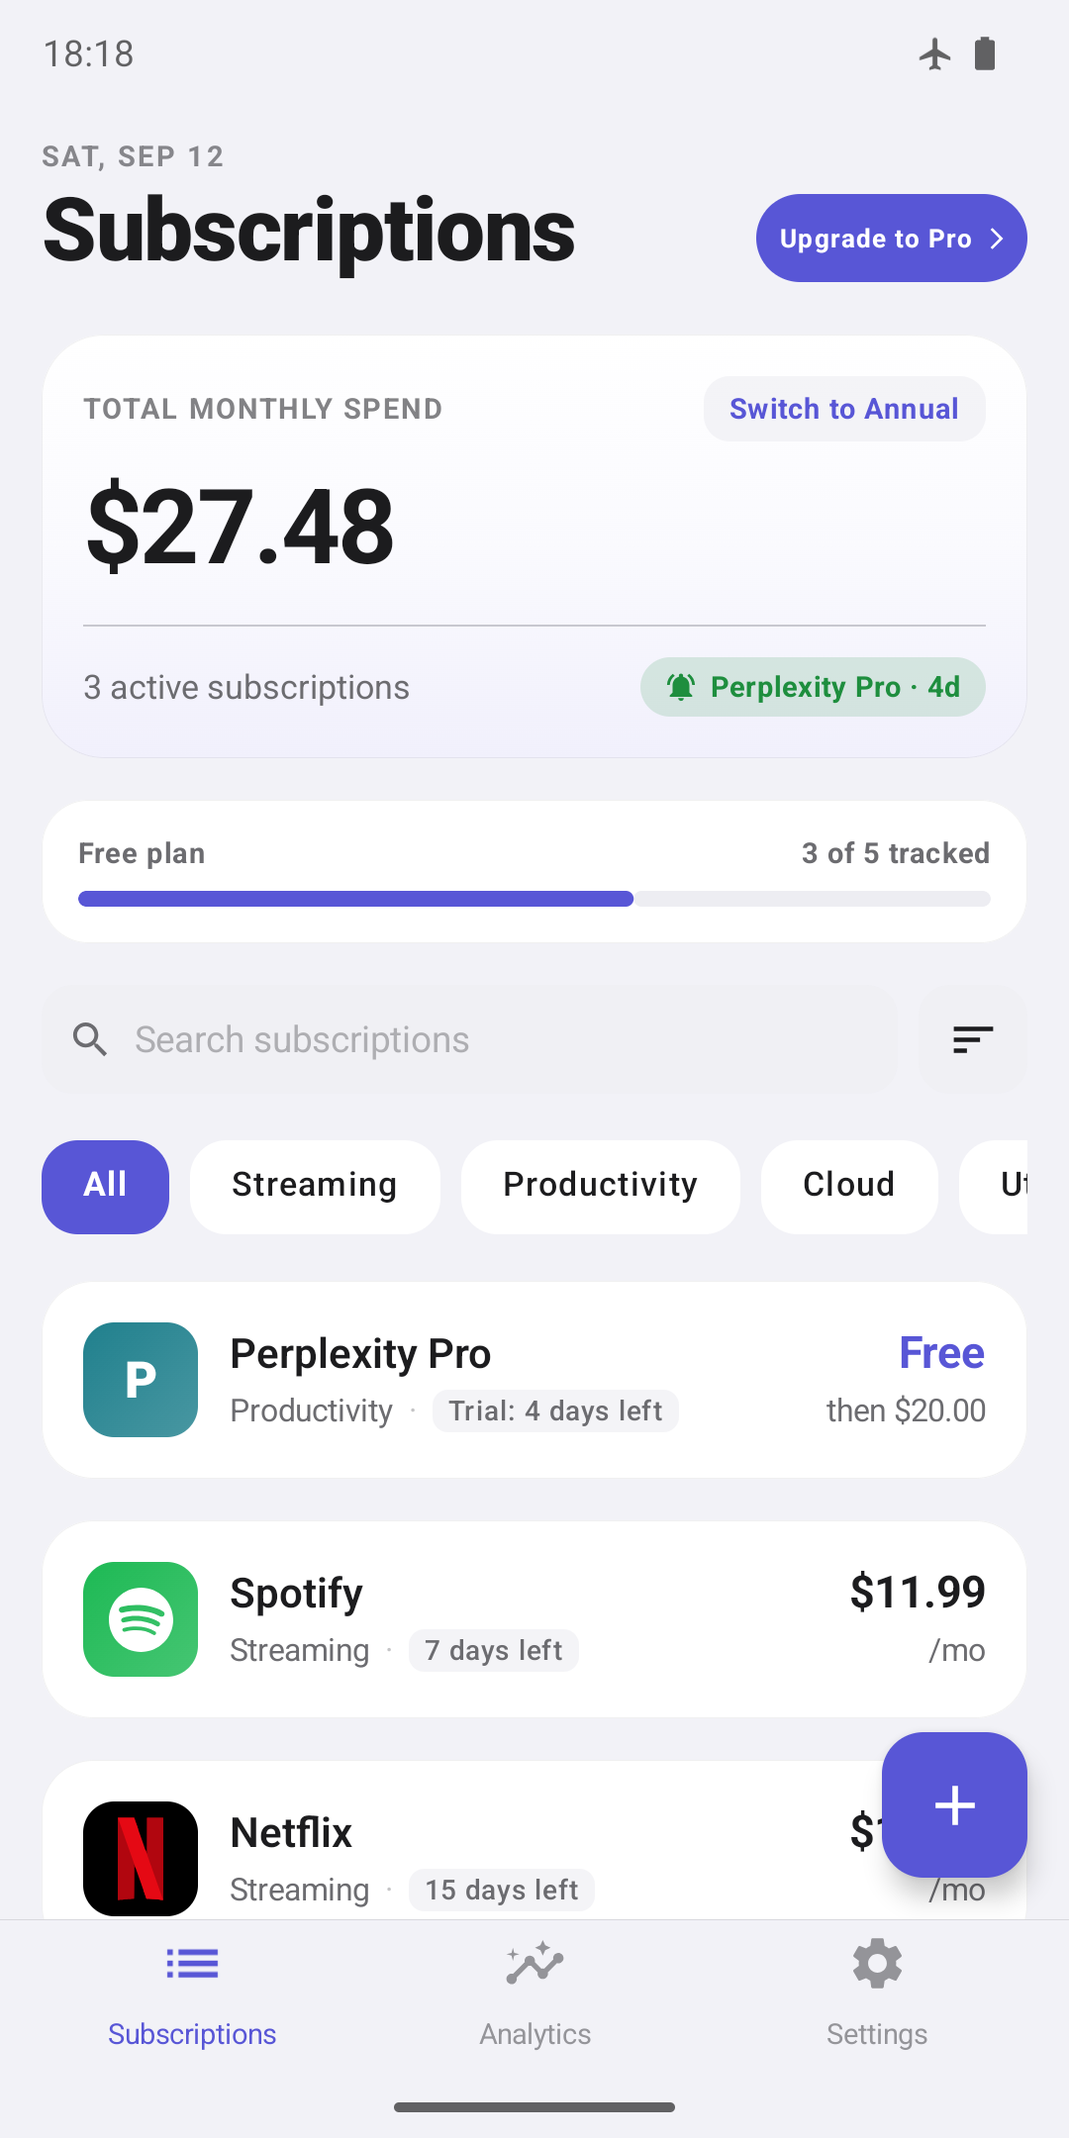
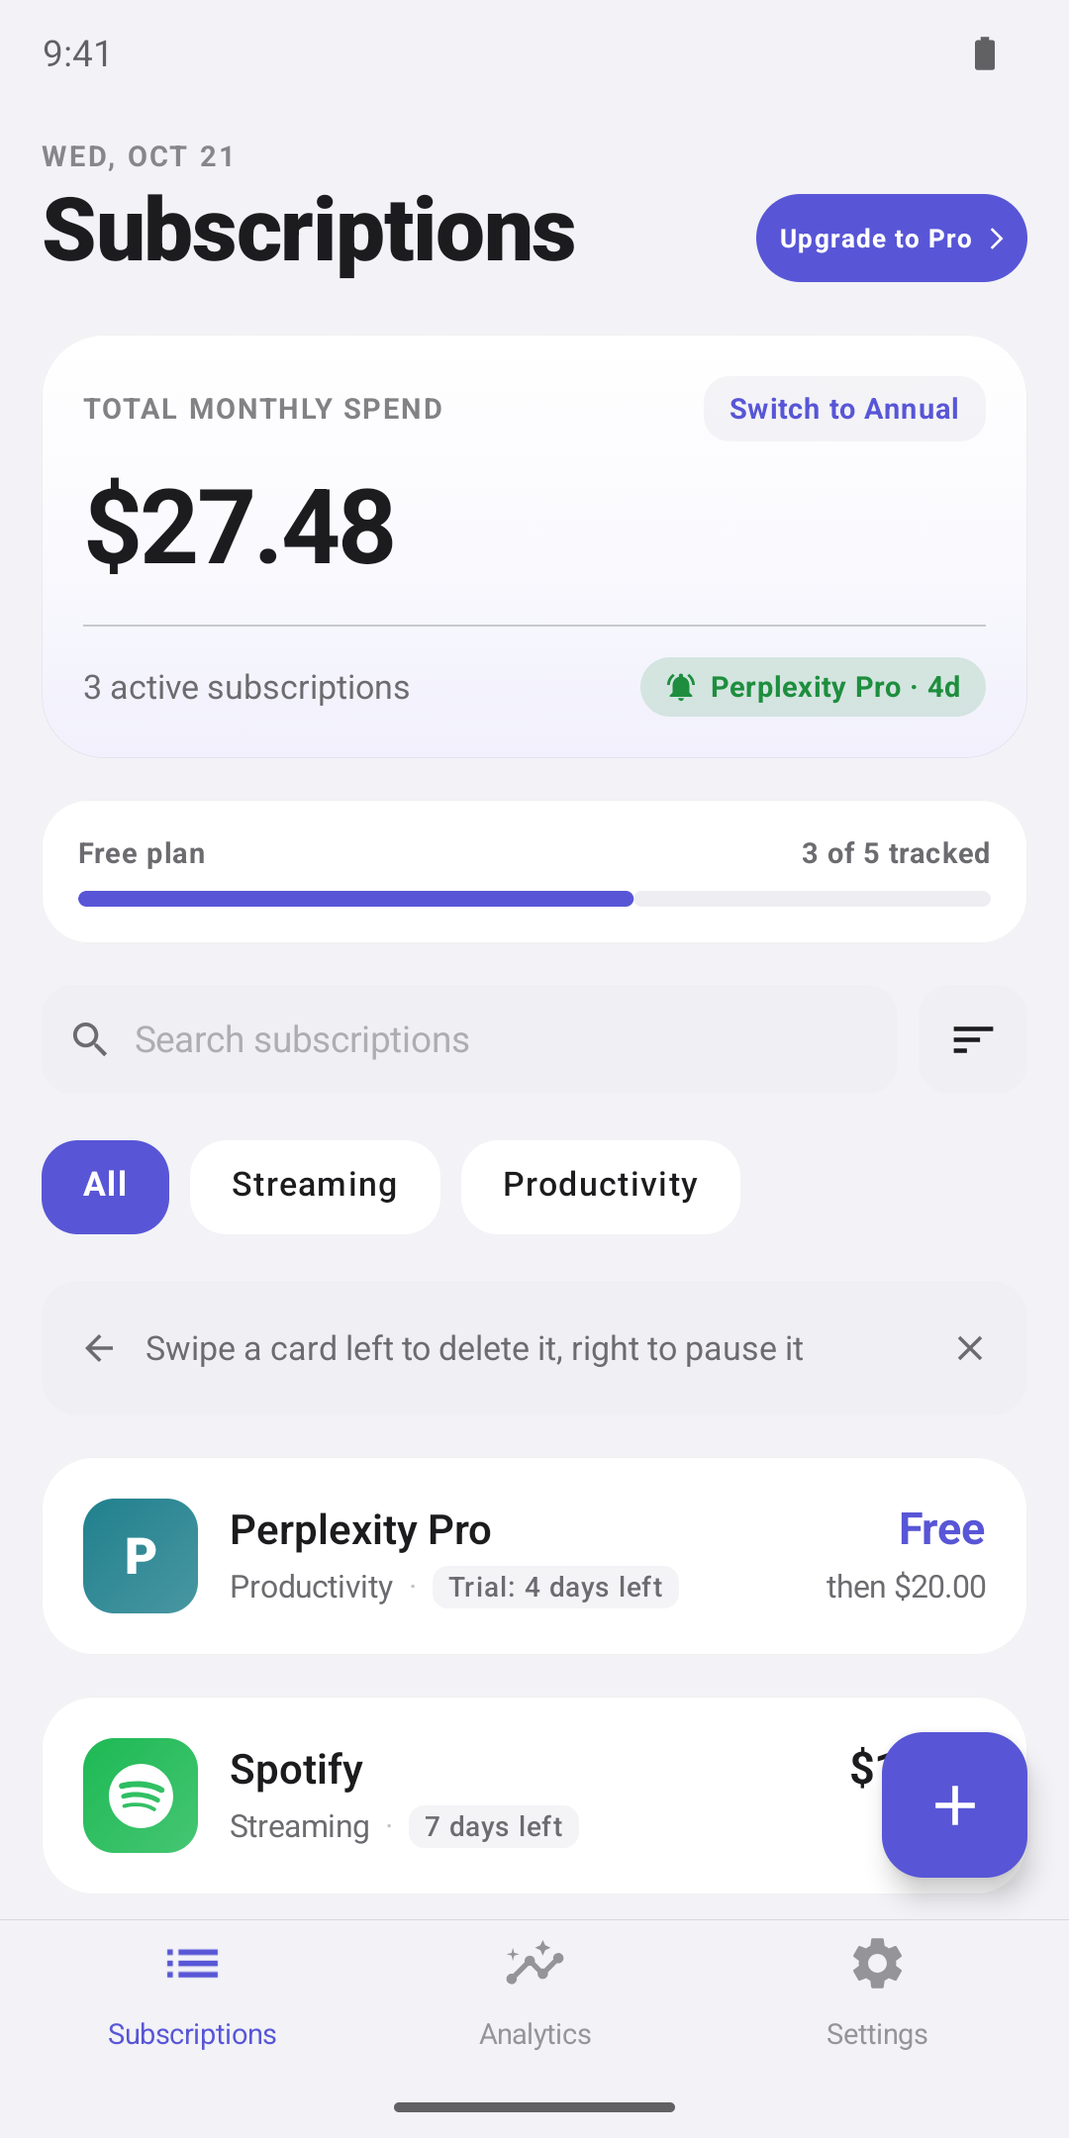
Refresh the store listing: new features in the copy, eight new screenshots
The full descriptions in all seven languages now name swipe right to pause,
long-press multi-select, CSV import, and the monthly budget in the Pro list.
Each new claim has a row in "What each claim rests on".

The six screenshots are replaced by eight, taken the documented way plus a
demo-mode status bar. They are ordered so that the first three, which Play
shows in search, are the dashboard, the trial countdown and analytics. The
two Pro shots (analytics, budget warning) were taken with a TEMP isPro edit
that has been reverted.

diff --git a/docs/play-store-copy.md b/docs/play-store-copy.md
@@ -465,7 +465,8 @@ TRACK EVERY SUBSCRIPTION
 • Or create your own, with a custom name, color and icon
 • Weekly, monthly, quarterly and yearly billing, all converted into monthly and yearly totals
 • Sort by renewal date, price or name; filter by category and search
-• Swipe a card left to delete it
+• Swipe a card left to delete it, or right to pause it
+• Long-press to select several and pause, resume, delete or recategorize them at once
 • Pause a subscription you've stopped paying for: it keeps its details but drops out of your totals and reminders
 • A home screen widget shows your monthly total and the renewals coming up
 
@@ -489,6 +490,7 @@ SPENDING ANALYSIS
 YOUR DATA STAYS ON YOUR PHONE
 • No account needed: everything is stored on your device
 • Export a JSON backup and restore it at any time
+• Import subscriptions from a CSV file — your own export or a spreadsheet — with a preview before anything is added
 • Dark mode (true black) and haptic feedback
 • In English, Simplified Chinese, Traditional Chinese, Japanese, German, French and Spanish
 
@@ -497,6 +499,7 @@ The free plan tracks up to 5 subscriptions and shows a banner ad. Pro gives you:
 • Unlimited subscriptions
 • Reminders 3 and 7 days before renewal
 • The full spending analysis and CSV export
+• A monthly budget, with a meter on your total and a heads-up before a subscription takes you over
 • No ads, ever
 Choose monthly, annual or a one-time lifetime purchase, all billed through Google Play. Subscriptions can be cancelled at any time.
 
@@ -527,7 +530,8 @@ Netflix、Spotify、云存储、健身房……每个月的订阅费加起来到
 • 也可以自定义服务名称、颜色和图标
 • 支持每周、每月、每季度、每年四种计费周期，自动折算成每月和每年支出
 • 按续费日期、价格或名称排序，可按分类筛选和搜索
-• 向左滑动卡片即可删除
+• 向左滑动卡片即可删除，向右滑动即可暂停
+• 长按可多选，一次性暂停、恢复、删除或更改分类
 • 不再付费的订阅可以暂停：记录保留，但不再提醒，也不计入总支出
 • 桌面小组件，随时查看每月总支出和即将到来的续费
 
@@ -551,6 +555,7 @@ Netflix、Spotify、云存储、健身房……每个月的订阅费加起来到
 【你的数据只留在你的手机上】
 • 无需注册账号，所有订阅数据都存储在本机
 • 可导出 JSON 备份，随时从备份恢复
+• 可从 CSV 文件导入订阅（本应用导出的文件或自己做的表格），添加前会先预览
 • 支持深色模式（纯黑）和触感反馈
 • 界面支持简体中文、繁体中文、英语、日语、德语、法语和西班牙语
 
@@ -559,6 +564,7 @@ Netflix、Spotify、云存储、健身房……每个月的订阅费加起来到
 • 不限订阅数量
 • 增加提前 3 天和 7 天的续费提醒
 • 解锁完整的支出分析和 CSV 导出
+• 月度预算：总支出旁显示进度条，订阅将超出预算时提前提醒
 • 永久去除广告
 提供月付、年付和买断三种方案，均通过 Google Play 付款，订阅方案可随时取消。
 
@@ -589,7 +595,8 @@ Netflix、Spotify、雲端空間、健身房……每個月的訂閱費用加起
 • 也可以自訂服務名稱、顏色與圖示
 • 支援每週、每月、每季、每年四種計費週期，自動換算成每月與每年支出
 • 依續訂日期、價格或名稱排序，並可依類別篩選與搜尋
-• 向左滑動卡片即可刪除
+• 向左滑動卡片即可刪除，向右滑動即可暫停
+• 長按可多選，一次暫停、恢復、刪除或變更分類
 • 不再付費的訂閱可以暫停：保留紀錄，但不再提醒，也不計入總支出
 • 主畫面小工具，隨時查看每月總支出與即將到來的續訂
 
@@ -613,6 +620,7 @@ Netflix、Spotify、雲端空間、健身房……每個月的訂閱費用加起
 【你的資料留在你的手機上】
 • 不需要註冊帳號，所有訂閱資料都儲存在本機
 • 可匯出 JSON 備份，並隨時從備份還原
+• 可從 CSV 檔案匯入訂閱（本 App 匯出的檔案或自己做的試算表），新增前會先預覽
 • 支援深色模式（純黑）與觸覺回饋
 • 介面支援繁體中文、簡體中文、英文、日文、德文、法文與西班牙文
 
@@ -621,6 +629,7 @@ Netflix、Spotify、雲端空間、健身房……每個月的訂閱費用加起
 • 不限訂閱數量
 • 增加提前 3 天與 7 天的續訂提醒
 • 解鎖完整的支出分析與 CSV 匯出
+• 每月預算：總支出旁顯示進度條，訂閱將超出預算時事先提醒
 • 永久移除廣告
 提供月繳、年繳與一次買斷方案，皆透過 Google Play 付款，訂閱方案可隨時取消。
 
@@ -651,7 +660,8 @@ ALLE ABOS IM BLICK
 • Oder eigene Dienste mit Name, Farbe und Symbol anlegen
 • Wöchentliche, monatliche, vierteljährliche und jährliche Abrechnung, umgerechnet in Monats- und Jahressummen
 • Nach Verlängerungsdatum, Preis oder Name sortieren, nach Kategorie filtern und suchen
-• Karte nach links wischen zum Löschen
+• Karte nach links wischen zum Löschen, nach rechts zum Pausieren
+• Lange drücken, um mehrere auszuwählen und gemeinsam zu pausieren, fortzusetzen, zu löschen oder neu einzuordnen
 • Ein Abo, das du nicht mehr bezahlst, pausieren: Die Daten bleiben, aber es zählt nicht mehr zu den Summen und erinnert dich nicht
 • Ein Widget für den Startbildschirm zeigt deine Monatssumme und die anstehenden Verlängerungen
 
@@ -675,6 +685,7 @@ AUSGABEN AUSWERTEN
 DEINE DATEN BLEIBEN AUF DEINEM GERÄT
 • Kein Konto nötig: alles wird auf deinem Gerät gespeichert
 • JSON-Backup exportieren und jederzeit wiederherstellen
+• Abos aus einer CSV-Datei importieren – dem eigenen Export oder einer Tabelle –, mit Vorschau, bevor etwas hinzukommt
 • Dunkelmodus (echtes Schwarz) und haptisches Feedback
 • Auf Deutsch, Englisch, Französisch, Spanisch, Japanisch sowie in vereinfachtem und traditionellem Chinesisch
 
@@ -683,6 +694,7 @@ Die kostenlose Version erfasst bis zu 5 Abos und zeigt ein Werbebanner. Mit Pro 
 • Unbegrenzt viele Abos
 • Erinnerungen 3 und 7 Tage vor der Verlängerung
 • Die komplette Auswertung und den CSV-Export
+• Ein Monatsbudget mit Anzeige bei deiner Summe und einem Hinweis, bevor ein Abo dich darüber bringt
 • Keine Werbung, nie
 Monatlich, jährlich oder als Einmalkauf, abgerechnet über Google Play. Abos sind jederzeit kündbar.
 
@@ -713,7 +725,8 @@ TOUS VOS ABONNEMENTS
 • Ou créez votre propre service, avec son nom, sa couleur et son icône
 • Facturation hebdomadaire, mensuelle, trimestrielle ou annuelle, convertie en totaux mensuels et annuels
 • Tri par date de renouvellement, prix ou nom ; filtre par catégorie et recherche
-• Balayez une carte vers la gauche pour la supprimer
+• Balayez une carte vers la gauche pour la supprimer, vers la droite pour la mettre en pause
+• Appui long pour en sélectionner plusieurs et les mettre en pause, reprendre, supprimer ou changer de catégorie en une fois
 • Mettez en pause un abonnement que vous ne payez plus : ses informations restent, mais il sort des totaux et des rappels
 • Un widget pour l’écran d’accueil affiche votre total mensuel et les prochains renouvellements
 
@@ -737,6 +750,7 @@ ANALYSE DES DÉPENSES
 VOS DONNÉES RESTENT SUR VOTRE TÉLÉPHONE
 • Aucun compte nécessaire : tout est enregistré sur votre appareil
 • Exportez une sauvegarde JSON et restaurez-la à tout moment
+• Importez des abonnements depuis un fichier CSV – votre export ou un tableur – avec un aperçu avant tout ajout
 • Mode sombre (noir intégral) et retour haptique
 • Disponible en français, anglais, allemand, espagnol, japonais, chinois simplifié et chinois traditionnel
 
@@ -745,6 +759,7 @@ La version gratuite suit jusqu’à 5 abonnements et affiche une bannière publi
 • Des abonnements illimités
 • Des rappels 3 et 7 jours avant le renouvellement
 • L’analyse complète des dépenses et l’export CSV
+• Un budget mensuel, avec une jauge sur votre total et un avertissement avant qu’un abonnement ne le dépasse
 • Aucune publicité
 Mensuel, annuel ou achat unique à vie, facturé via Google Play. Les abonnements sont résiliables à tout moment.
 
@@ -775,7 +790,8 @@ TODAS TUS SUSCRIPCIONES
 • O crea el tuyo con nombre, color e icono propios
 • Facturación semanal, mensual, trimestral o anual, convertida en totales mensuales y anuales
 • Ordena por fecha de renovación, precio o nombre; filtra por categoría y busca
-• Desliza una tarjeta a la izquierda para eliminarla
+• Desliza una tarjeta a la izquierda para eliminarla o a la derecha para pausarla
+• Mantén pulsado para seleccionar varias y pausarlas, reanudarlas, eliminarlas o cambiar su categoría a la vez
 • Pausa una suscripción que ya no pagas: conserva sus datos, pero deja de contar en los totales y de avisarte
 • Un widget para la pantalla de inicio muestra tu total mensual y las próximas renovaciones
 
@@ -799,6 +815,7 @@ ANÁLISIS DE GASTOS
 TUS DATOS SE QUEDAN EN TU MÓVIL
 • Sin cuenta: todo se guarda en tu dispositivo
 • Exporta una copia de seguridad JSON y restáurala cuando quieras
+• Importa suscripciones desde un archivo CSV –tu exportación o una hoja de cálculo– con una vista previa antes de añadir nada
 • Modo oscuro (negro puro) y respuesta háptica
 • En español, inglés, alemán, francés, japonés, chino simplificado y chino tradicional
 
@@ -807,6 +824,7 @@ El plan gratuito registra hasta 5 suscripciones y muestra un banner publicitario
 • Suscripciones ilimitadas
 • Avisos 3 y 7 días antes de la renovación
 • El análisis de gastos completo y la exportación CSV
+• Un presupuesto mensual, con un indicador junto a tu total y un aviso antes de que una suscripción lo supere
 • Sin publicidad, nunca
 Mensual, anual o pago único de por vida, cobrado a través de Google Play. Las suscripciones se pueden cancelar en cualquier momento.
 
@@ -837,7 +855,8 @@ Netflix、Spotify、クラウドストレージ、ジム……毎月のサブス
 • 名前・色・アイコンを自由に設定できるカスタムサービスにも対応
 • 週・月・四半期・年ごとの請求に対応し、月額と年額に自動で換算
 • 更新日・金額・名前で並べ替え、カテゴリでの絞り込みと検索も可能
-• カードを左にスワイプして削除
+• カードを左にスワイプで削除、右にスワイプで停止
+• 長押しで複数選択し、停止・再開・削除やカテゴリ変更をまとめて実行
 • 支払いをやめたサブスクは削除せずに停止できます。記録は残したまま、通知と合計の対象から外れます
 • ホーム画面ウィジェットで、月額合計とこれからの更新をいつでも確認できます
 
@@ -861,6 +880,7 @@ Netflix、Spotify、クラウドストレージ、ジム……毎月のサブス
 【データは端末の中だけに】
 • アカウント登録は不要。データはすべて端末に保存されます
 • JSON 形式でバックアップを書き出し、いつでも復元できます
+• CSV ファイルからサブスクをインポート（このアプリの書き出しファイルや自作の表）。追加前にプレビューで確認できます
 • ダークモード（純黒）と触覚フィードバックに対応
 • 日本語、英語、ドイツ語、フランス語、スペイン語、簡体字中国語、繁体字中国語に対応
 
@@ -869,6 +889,7 @@ Netflix、Spotify、クラウドストレージ、ジム……毎月のサブス
 • サブスクを無制限に登録
 • 更新 3 日前・7 日前の通知
 • すべての支出分析と CSV 書き出し
+• 月の予算：合計の横に進捗バーを表示し、予算を超えそうなときに事前にお知らせ
 • 広告なし
 月額・年額・買い切りの 3 プランから選べます。お支払いは Google Play で行われ、サブスクリプションはいつでも解約できます。
 
@@ -891,6 +912,9 @@ What each claim rests on:
 | Totals and daily average free | outside the `ProGate`s (`item(key = "metrics")`) |
 | Pause instead of delete; out of totals and reminders; every plan | `Subscription.isActive`, `SubscriptionRepository.setActive` (no `ProGate`); BIN-29 |
 | Home screen widget: monthly total and upcoming renewals; every plan | `widget/SubFlowWidget.kt`, `summariseForWidget` (not gated); BIN-30, BIN-32 |
+| Swipe right to pause; long-press multi-select (pause, resume, delete, category); every plan | `SwipeableSubscriptionCard` StartToEnd, `DashboardScreen` selection mode (not gated); BIN-41, BIN-66 |
+| CSV import with a preview; every plan | `domain/util/CsvImport.kt`, `ImportPreviewSheet`, Settings → Data (not gated); BIN-65 |
+| Monthly budget with a meter and an over-budget heads-up; Pro | `PreferencesManager.monthlyBudget`, `domain/util/Budget.kt`, shown only when `isPro`; BIN-68 |
 | Opening the service's account page | `cancellationUrlFor()`: known services get their own page; everything else gets Google Play's subscriptions page, so the copy says "常見服務" |
 
 **Deliberately not claimed:** cloud sync. The release build has no backend,
@@ -923,17 +947,71 @@ so the feature isn't there.
       `02-dashboard-dark` would now show only the category chips in use.
       Nothing in the current shots is false.
 
+## Store listing refresh (BIN-73)
+
+Not tied to a build: the listing text and screenshots can be updated in the
+Console at any time, and the change goes through Play review on its own.
+
+- [ ] **Full descriptions, all seven languages.** Paste each *Full
+      description* above. New since the last upload: swipe right to pause,
+      long-press multi-select, CSV import, and the monthly budget in the Pro
+      list. Titles and short descriptions are unchanged. Each new claim has a
+      row in *What each claim rests on*.
+- [ ] **Phone screenshots: replace all six with the eight below**, in this
+      order. Play shows the first three in search results, so the hero, trial
+      tracking and analytics go first.
+
+| # | File | Shows | Plan |
+|---|---|---|---|
+| 1 | `01-dashboard.png` | Total, trial badge, free-plan meter, swipe hint | Free |
+| 2 | `02-trial-detail.png` | Trial countdown, price after trial | Free |
+| 3 | `03-analytics.png` | 6-month trend, category split | Pro |
+| 4 | `04-add-budget.png` | Preset filled in, over-budget warning, 3/7-day reminders | Pro |
+| 5 | `05-multi-select.png` | Two selected, pause/delete, category/reminder menu | Free |
+| 6 | `06-csv-import.png` | Import preview, duplicate skipped | Free |
+| 7 | `07-services.png` | Preset picker with logos | Free |
+| 8 | `08-dashboard-dark.png` | Dark (OLED) theme | Free |
+
+The same English screenshots serve every language, as before.
+
 ### How the screenshots were taken
 
-So the next set matches rather than drifting. On the Pixel_8a emulator:
+So the next set matches rather than drifting. On a Pixel 8a emulator
+(1080x2400, 420 dpi, Android 15):
 
-- `adb shell wm size 1080x2160` — the capture is then already at the ratio Play
-  accepts, with nothing cropped away.
+- **Use an emulator of its own.** `emulator-5554` is shared with another
+  project's session, which brought its own app to the front partway through
+  the 2026-10-21 shoot. The set was taken on a separate AVD,
+  `Pixel_8a_Shots`, started with `-port 5580`.
+- `adb shell wm size 1080x2160`: the capture is then already at the ratio
+  Play accepts, with nothing cropped away.
 - `cmd locale set-app-locales <pkg> --locales en-US`, home currency USD.
-- Seed three active subscriptions and one paused, **not four** — at four the
-  "one slot left on the free plan" card fills half the screen. One of the three
-  is a running trial, which is what puts trial tracking in the frame.
+- Seed three active subscriptions and one paused, **not four**. At four, the
+  "one slot left on the free plan" card fills half the screen. One of the
+  three is a running trial, which is what puts trial tracking in the frame:
+  Perplexity Pro (trial, 4 days left, then $20), Spotify $11.99 and Netflix
+  $15.49, plus Adobe Creative Cloud paused.
 - **Airplane mode on.** Otherwise the AdMob *test* banner renders into the
   bottom of every shot, and a Play Billing error snackbar covers a row.
-- The app's own Appearance setting drives dark mode, not `cmd uimode night` —
-  the setting overrides the system.
+- **SystemUI demo mode** for the status bar: clock 9:41, full battery, no
+  notification icons
+  (`settings put global sysui_demo_allowed 1`, then
+  `am broadcast -a com.android.systemui.demo -e command clock -e hhmm 0941`
+  and the same for `battery` and `notifications`). Exit it with
+  `-e command exit`.
+- Dark mode comes from the app's own Appearance setting, not
+  `cmd uimode night`, because the setting overrides the system.
+- **Pro shots (3 and 4).** The emulator has no Play Billing, so for these
+  `val isPro` in `SubFlowNavGraph` was temporarily set to `true`, marked
+  `TEMP-`, then reverted. `grep -rl 'TEMP-\|isPro || true' android/app/src/`
+  printed nothing before the commit.
+  - Shot 4: monthly budget $40, then Disney+ picked in the add form.
+  - Shot 3: the analytics shot is the only one on a larger set, eight
+    subscriptions with staggered start dates. With three, the trend line is
+    flat. A Pro user has no limit of five, so that set is one a Pro user
+    could have.
+- **CSV import (6).** The file was three rows with headers
+  `Name,Amount,Currency,Cycle,Category,FirstBillDate`: Netflix, already
+  tracked, so it is skipped; Disney+; and ChatGPT Plus. Five rows would make
+  the preview say two come in paused under the free limit. That is true, but
+  it is not what this shot is selling.

diff --git a/docs/google-play-release-checklist.md b/docs/google-play-release-checklist.md
@@ -233,7 +233,7 @@ critical path for: 隐私权政策 declaration, 数据安全, and the store list
 | 详细联系信息 | **DONE.** Email `zmtzwb@gmail.com`. Phone and website left blank — `subflow.app` is not live. |
 | 商品详情 (en-US) | **DRAFT saved.** Name `SubFlow: Subscription Tracker` (29/30), short description 74/80, full description 2119/4000. |
 | Store graphics | Icon + feature graphic **generated**, see `play-assets/`. Not yet uploaded. |
-| Screenshots | **5 captured**, `play-assets/screenshots/`. 1080×2160 each — note 1080×2400 (the Pixel 8a default) is **rejected**, because Play caps the long side at 2× the short side. |
+| Screenshots | **8 captured** (refreshed 2026-10-21, BIN-73; order and method in `play-store-copy.md`), `play-assets/screenshots/`. 1080×2160 each — note 1080×2400 (the Pixel 8a default) is **rejected**, because Play caps the long side at 2× the short side. |
 
 #### Claims verified before going into the public listing
 
